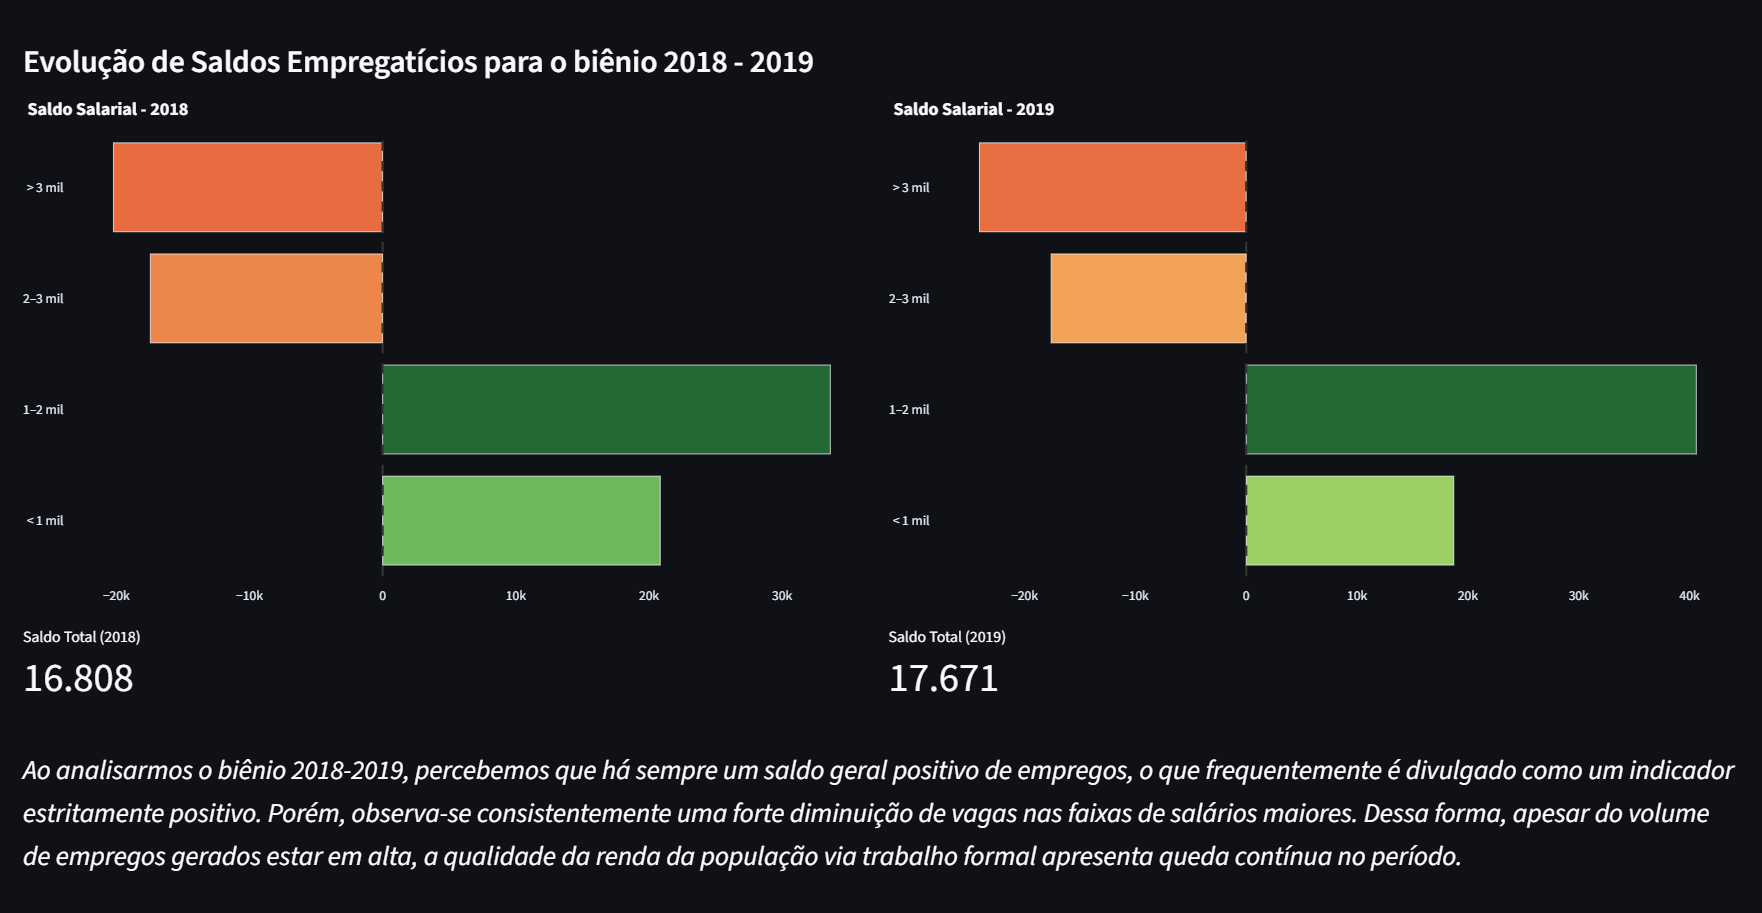
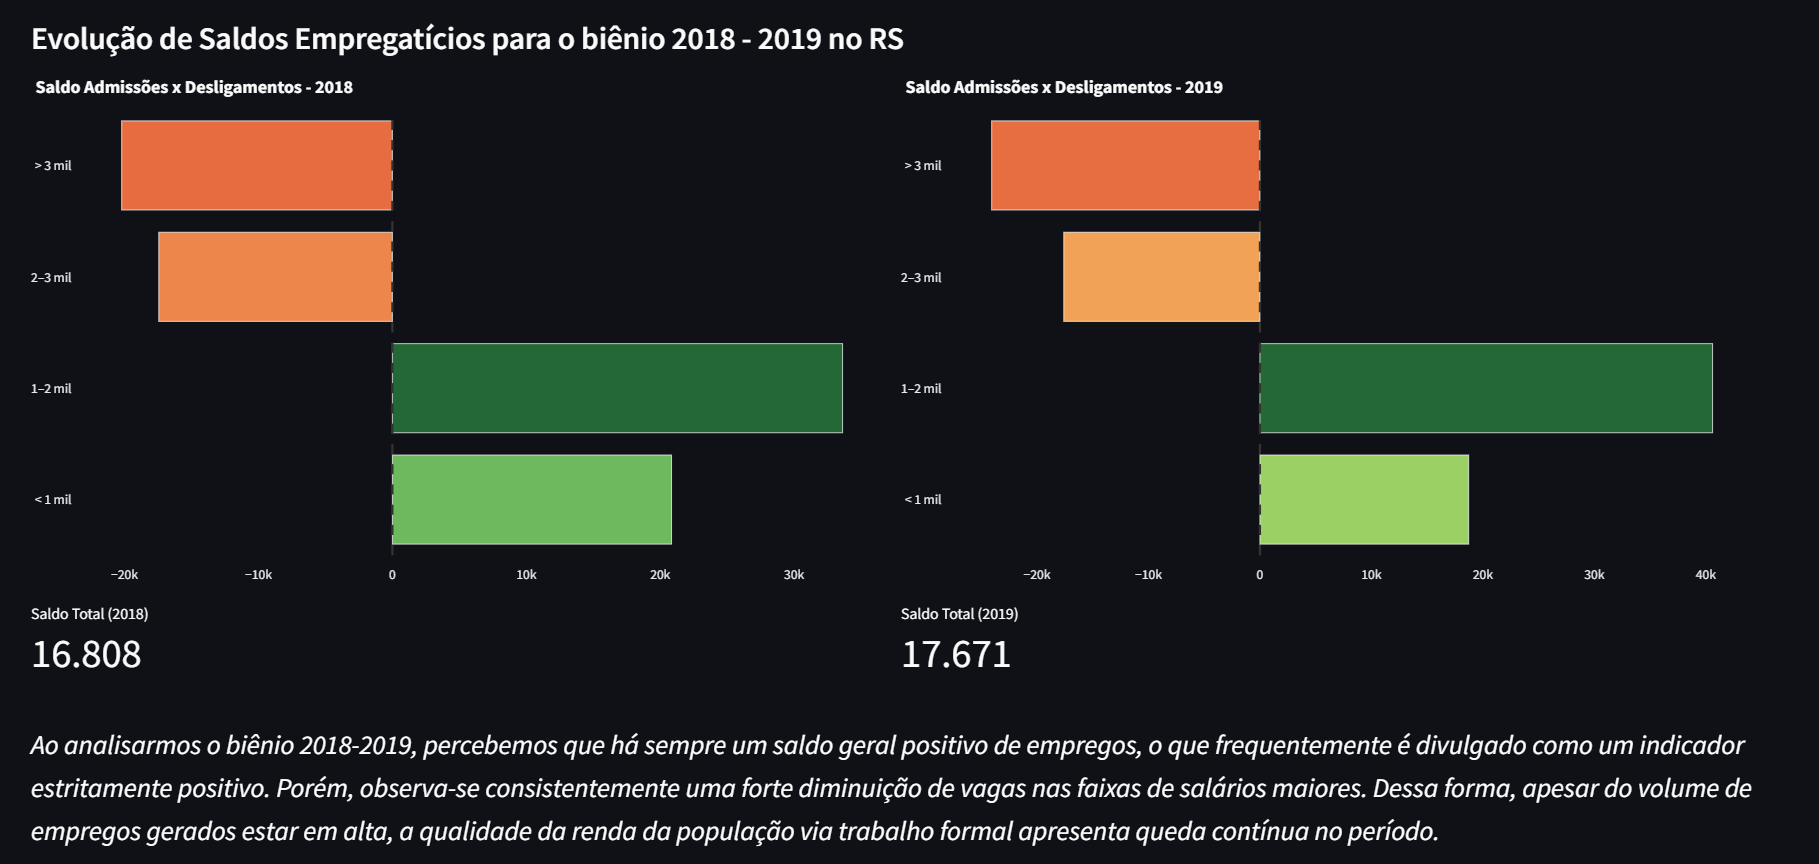
fix titles

diff --git a/graph.py b/graph.py
@@ -222,7 +222,7 @@ def build_salary_vs_hours_chart(data: pd.DataFrame) -> None:
 
 def build_historical_pyramids(agg_data: pd.DataFrame) -> None:
     st.markdown("---")
-    st.subheader("Evolução de Saldos Empregatícios para o biênio 2018 - 2019")
+    st.subheader("Evolução de Saldos Empregatícios para o biênio 2018 - 2019 no RS")
 
     temp = agg_data.copy()
     temp = temp[temp["faixa_salario"].isin(SALARY_RANGES)]
@@ -258,7 +258,7 @@ def build_historical_pyramids(agg_data: pd.DataFrame) -> None:
             x="saldo",
             y="faixa_salario",
             orientation="h",
-            title=f"Saldo Salarial - {year}",
+            title=f"Saldo Admissões x Desligamentos - {year}",
             category_orders={"faixa_salario": SALARY_RANGES[::-1]},
             color="saldo",
             color_continuous_scale=px.colors.diverging.RdYlGn,

diff --git a/RELATORIO.md b/RELATORIO.md
@@ -24,7 +24,7 @@
 
 ### Legenda (*caption*)
 
-Dois gráficos de pirâmide lado a lado, demonstrando o saldo empregatício (admissões - desligamentos) nos anos de 2018 e 2019 no estado do Rio Grande do Sul, respectivamente, separados por faixa de renda. As faixas de renda são menos que mil reais, entre mil e dois mil reais e acima de três mil reais mensais. O salário mínimo nos anos foi respectivamente R$954,00 e R$998,00. 
+Dois gráficos de pirâmide lado a lado, demonstrando o saldo empregatício (calculado como admissões - desligamentos) nos anos de 2018 e 2019 no estado do Rio Grande do Sul, respectivamente, separados por faixa de renda. As faixas de renda são menos que mil reais, entre mil e dois mil reais e acima de três mil reais mensais. O salário mínimo nos anos foi respectivamente R$954,00 e R$998,00. 
 
 ### Conclusão demonstrada pela visualização
 